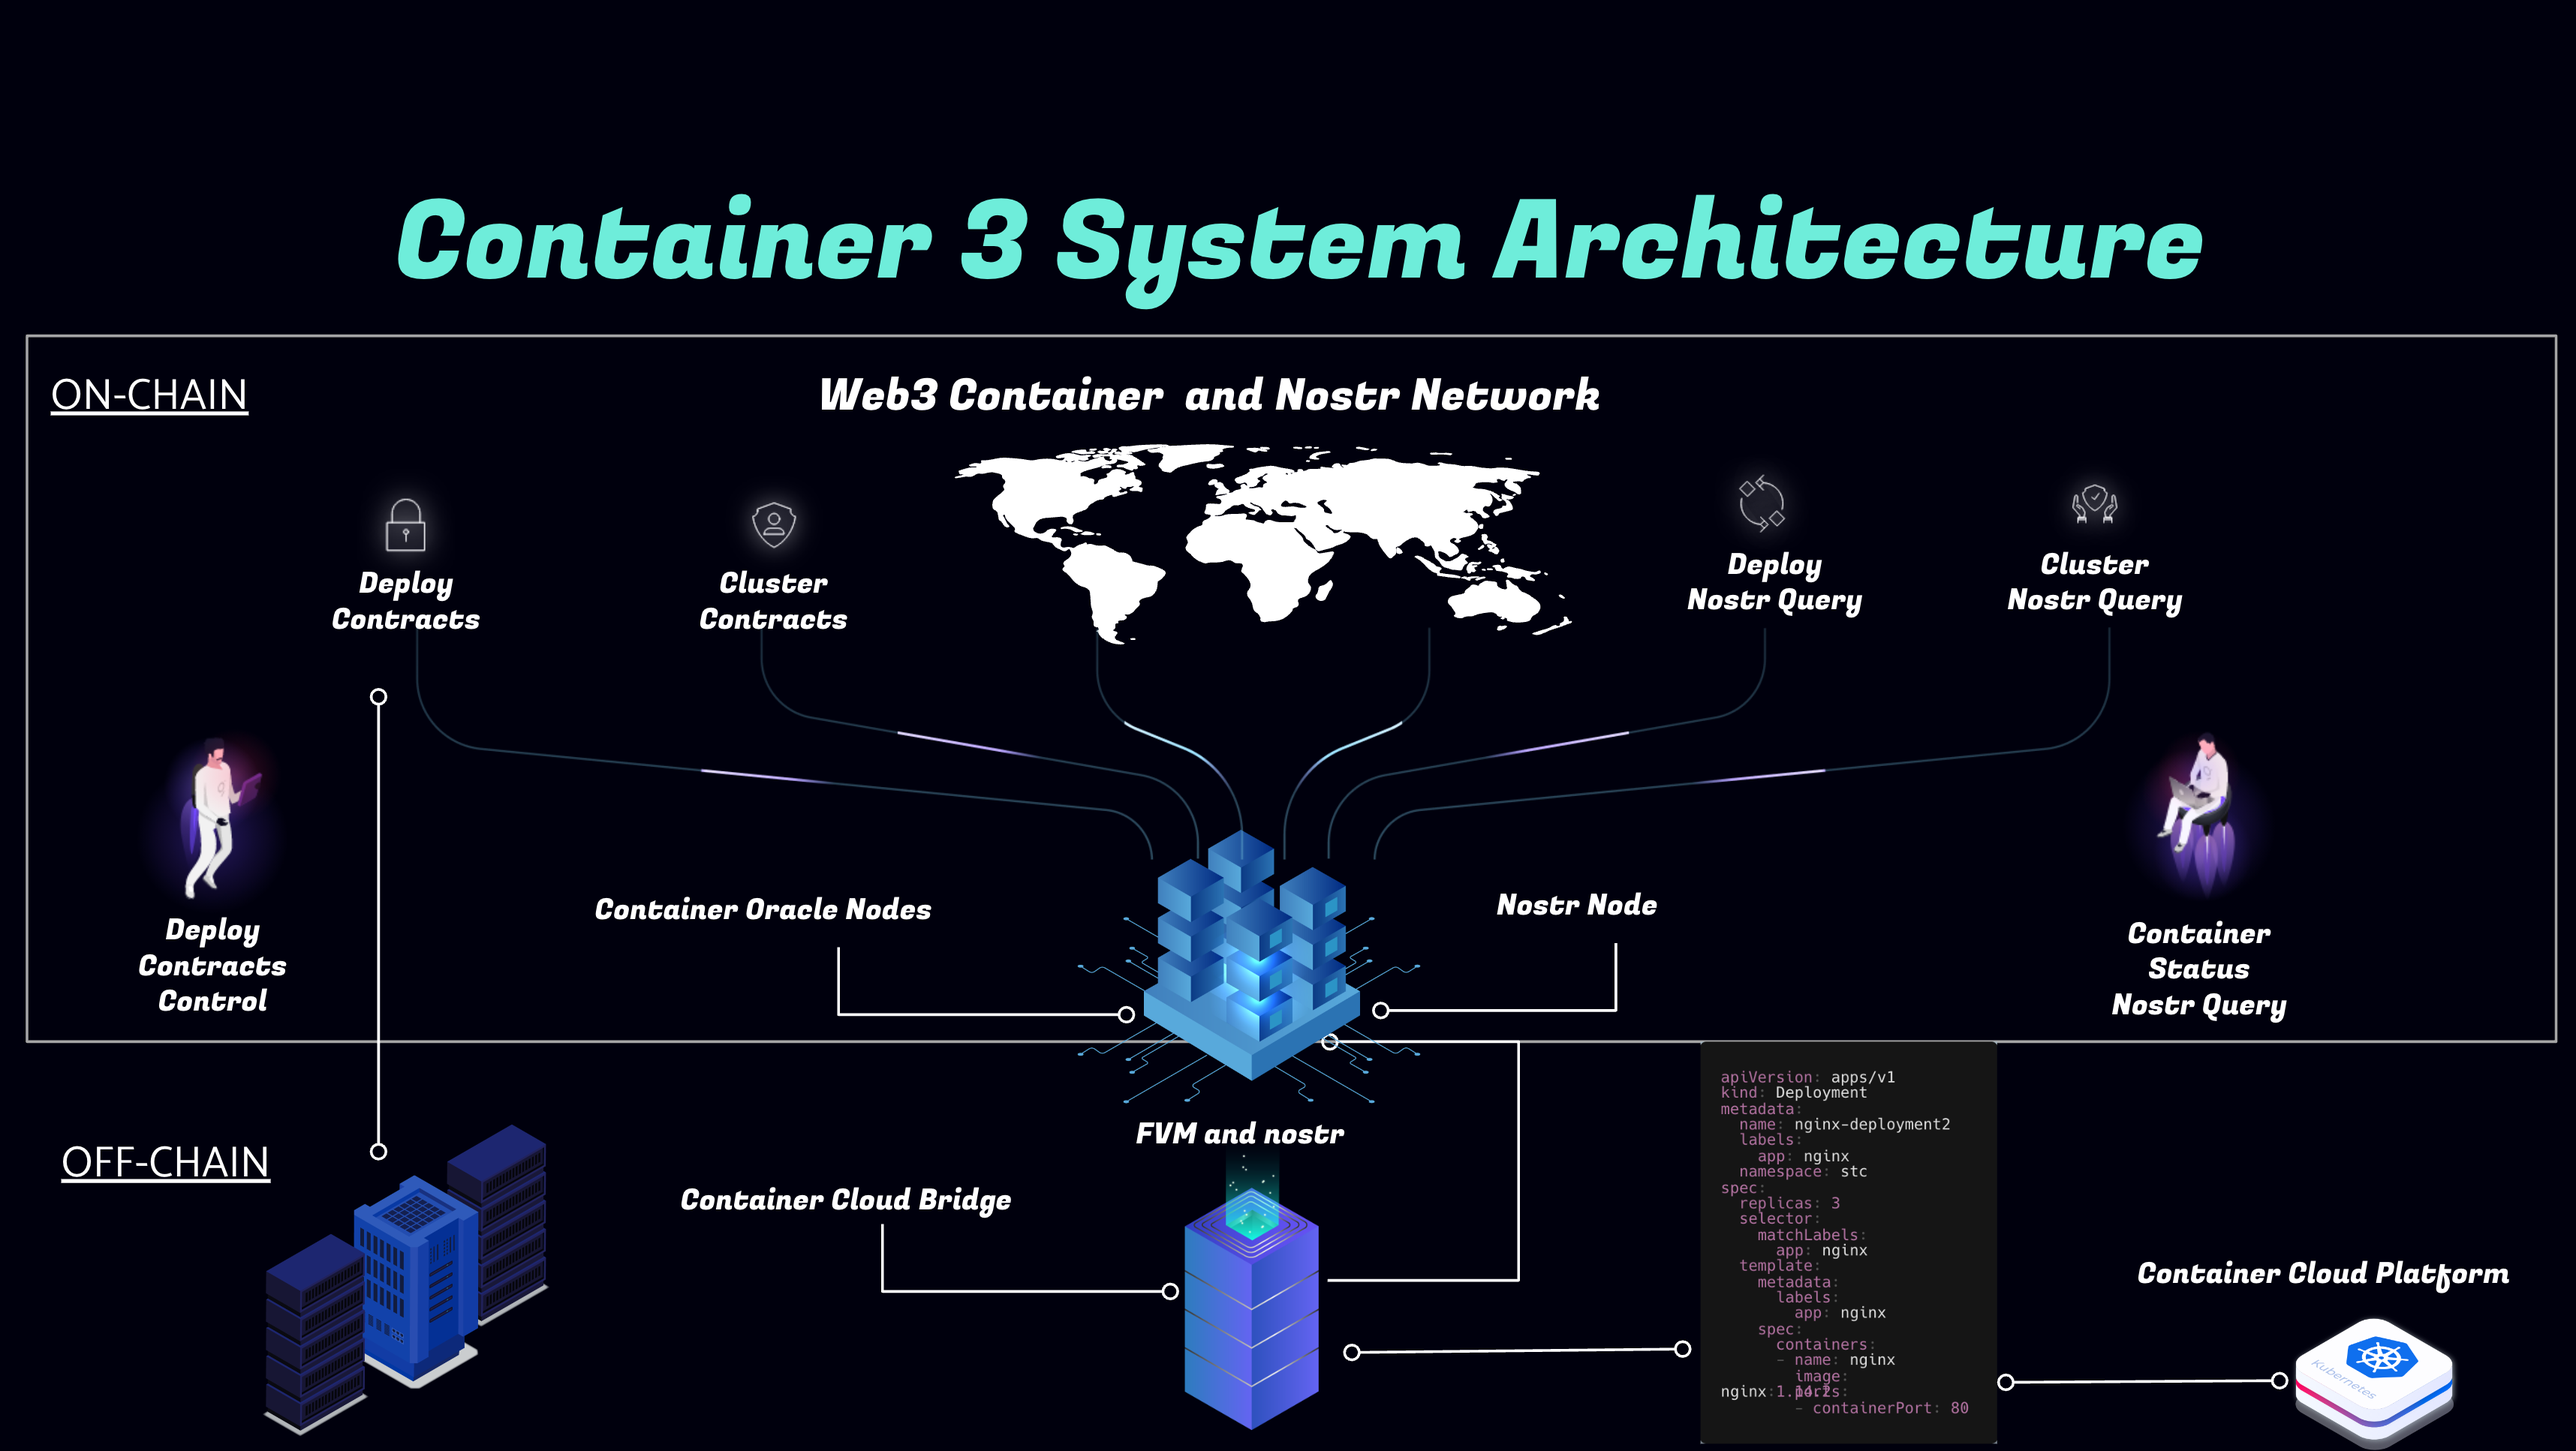
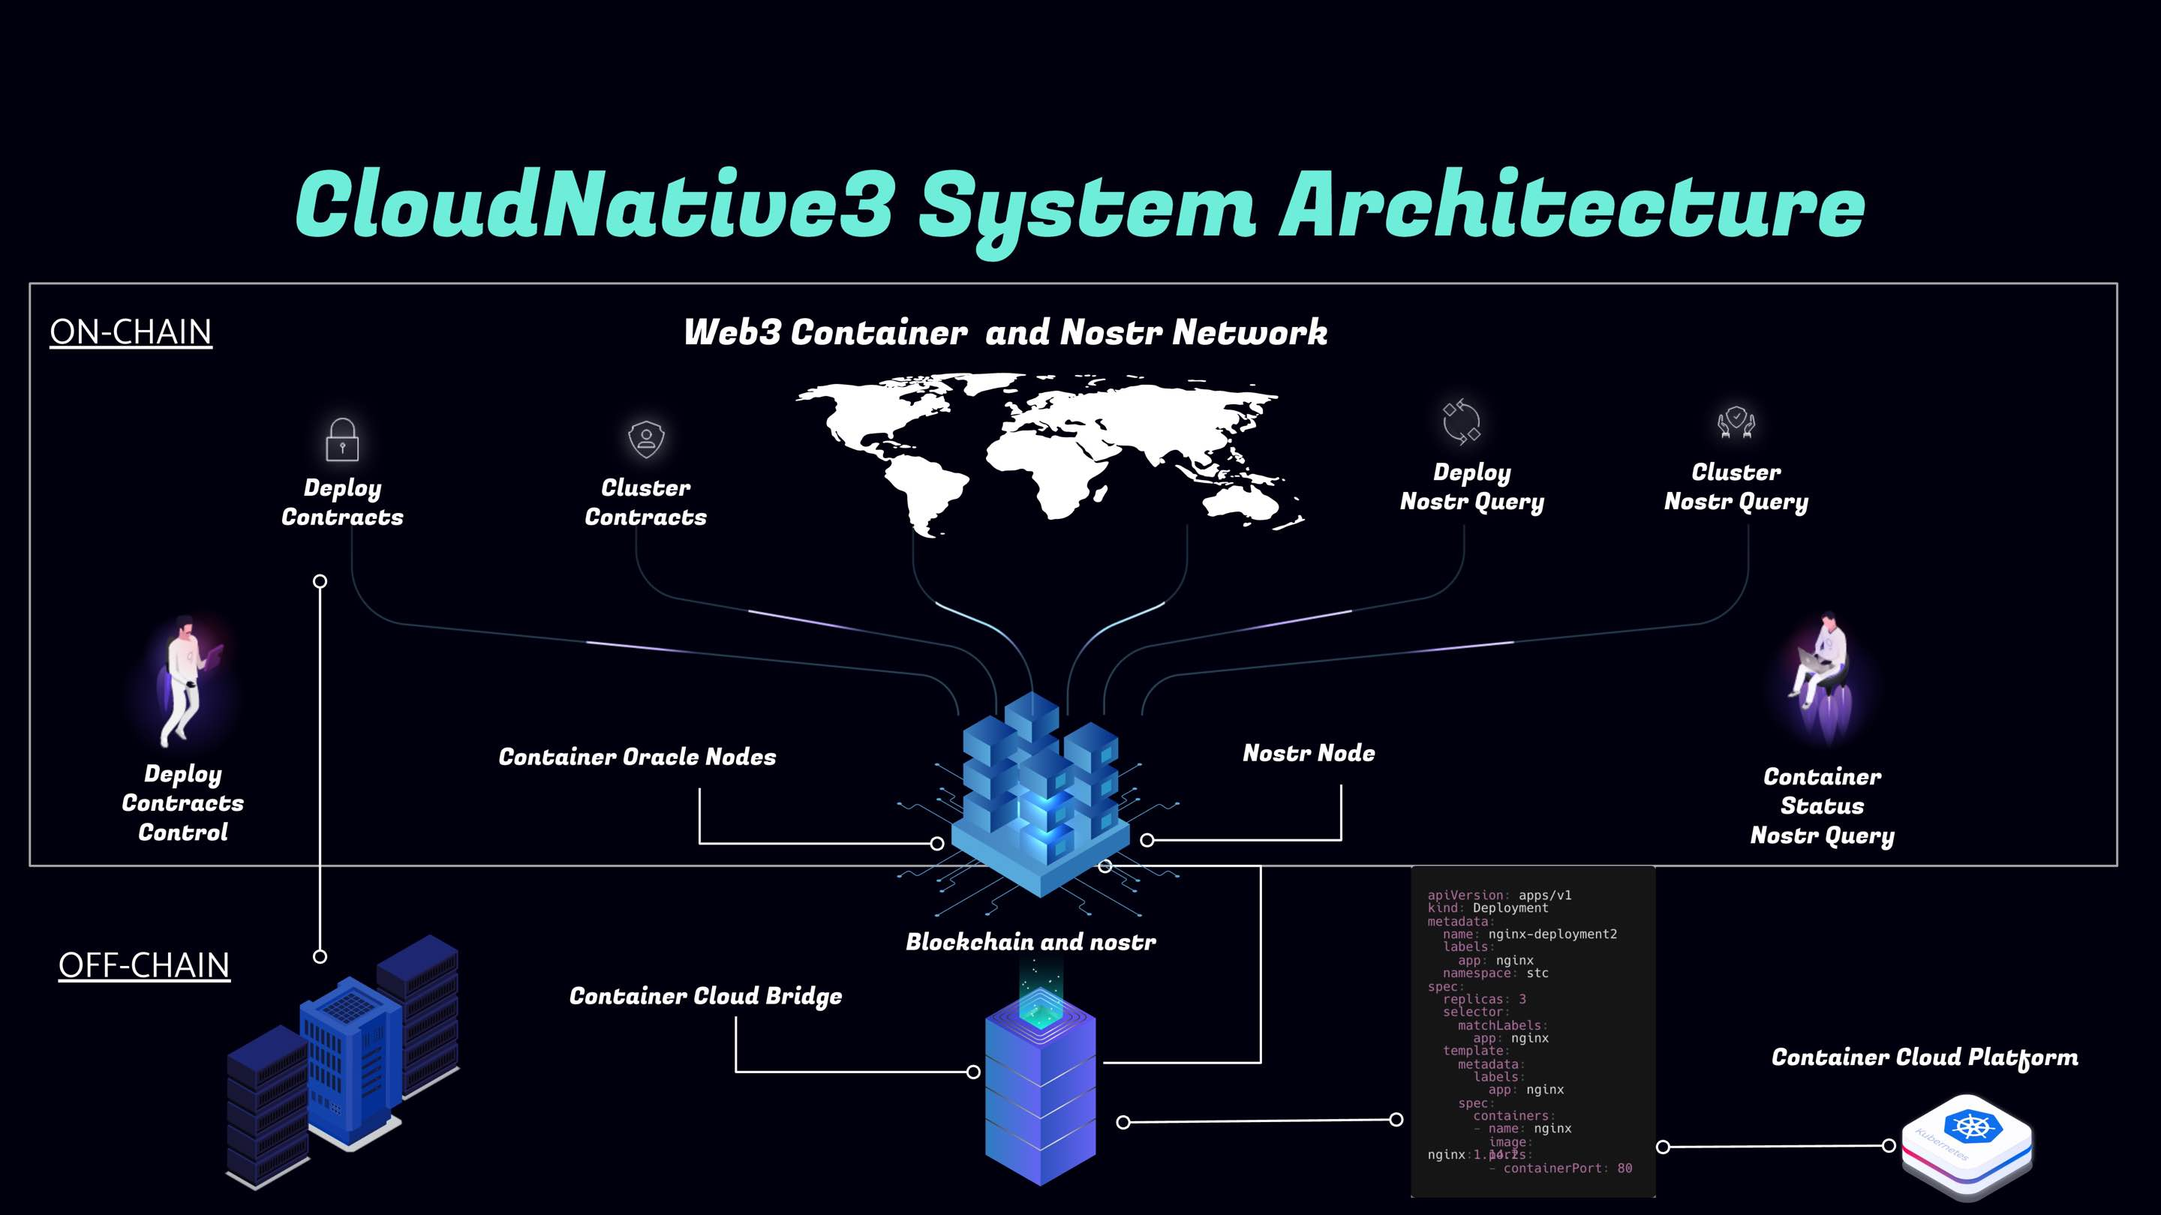
Typo update

diff --git a/src/config/welcome.ts b/src/config/welcome.ts
@@ -6,5 +6,5 @@ type Welcome = {
 export const welcome: Welcome = {
   title: "CloudNative3",
   description:
-    "CloudNative3 is an innovative project that combines Web3, Chainlink, and CloudNative technologies to create an advanced blockchain-based cloud-native solution. It enhances trust, security, and scalability for cloud-native applications, bridging the gap between the decentralized web and real-world data. Accelerating innovation and enabling creative use cases, CloudNative3 empowers developers and enterprises with a flexible and secure cloud-native experience."
+    "CloudNative3 is a disruptive decentralized cloud computing platform. Its innovative technology subverts the traditional cloud computing model and provides a new solution for the seamless migration from Web2 to Web3. Through technologies such as container cloud, service grid governance, zero-trust security control, and decentralized security control of on-chain oracles, CloudNative3 realizes rapid application deployment, efficient communication, flexible security, and seamless connection between on-chain and off-chain."
 };

diff --git a/src/views/welcome/index.vue b/src/views/welcome/index.vue
@@ -83,16 +83,16 @@ const arr = [
   <!-- section2 -->
   <div class="bg-base-200 mt-10 text-center py-20">
     <h1 class="text-2xl font-bold dark:text-slate-200">
-      Web3 Computing Resource Trusted Management System
+      CloudNative3 System Architecture
     </h1>
     <p
       class="py-6 text-lg max-w-[700px] mx-auto text-slate-500 dark:text-slate-400"
     >
-      The Web3 computing resource trust management system is one of the
-      applications of blockchain technology in the field of computing resources.
-      It can provide more secure, reliable and efficient computing resource
-      management solutions for cloud computing, big data analysis and other
-      fields.
+      CloudNative3 provides a complete solution, including technologies such as
+      container cloud, service grid governance, zero-trust security control, and
+      decentralized security control of on-chain oracles. At the same time, the
+      communication proof mechanism based on TLSNotary can also ensure the
+      security and reliability of communication.
     </p>
 
     <div>
